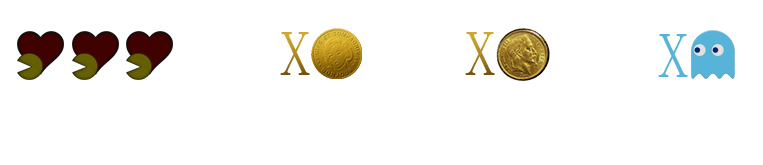
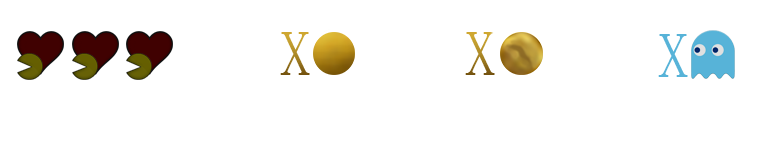
Story 2
modification des pièces et des pacgommes

Changed region(s): [[0.633, 0.1515, 0.7235, 0.5152], [0.3919, 0.1515, 0.4823, 0.4848]]

diff --git a/Pacman/frmJeu.cs b/Pacman/frmJeu.cs
@@ -25,7 +25,6 @@ namespace Pacman
         private PictureBox _pacmanImage;
         private PictureBox _interface_vie;
         private PictureBox[] _piece;
-        private Label lblPiecesRestantes = new Label();
         private Point _positionPacman;
         private int _actualisation = 0;
         private int _actualisation2 = 0;
@@ -56,10 +55,6 @@ namespace Pacman
             this.MaximizeBox = false;
             this.Name = "Jeu";
             this.BackColor = Color.Black;
-            lblPiecesRestantes.Location = new Point(200,540);
-            lblPiecesRestantes.AutoSize = true;
-            lblPiecesRestantes.Text = "bonjour!";
-            Controls.Add(lblPiecesRestantes);
             gestionMap();
             timerDeplacement.Start();
         }
@@ -147,7 +142,6 @@ namespace Pacman
                 }
             }
             _pacman.PiecesRestantes();
-            lblPiecesRestantes.Text = _pacman.NbPiecesRestantes.ToString();
             if (_pacman.NbPiecesRestantes == 0)
             {
                 timerDeplacement.Stop();
